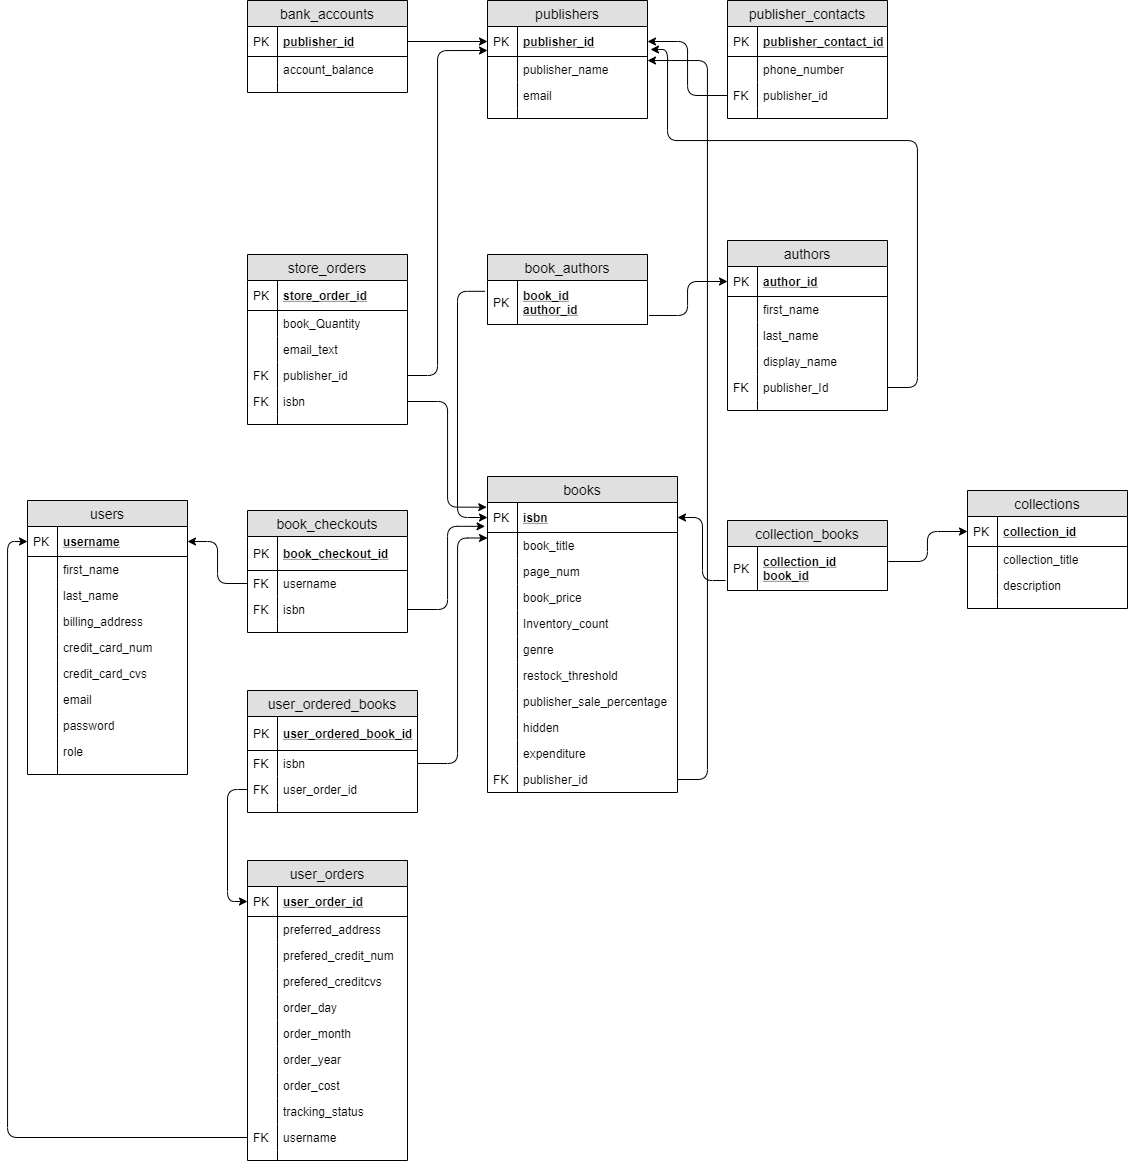
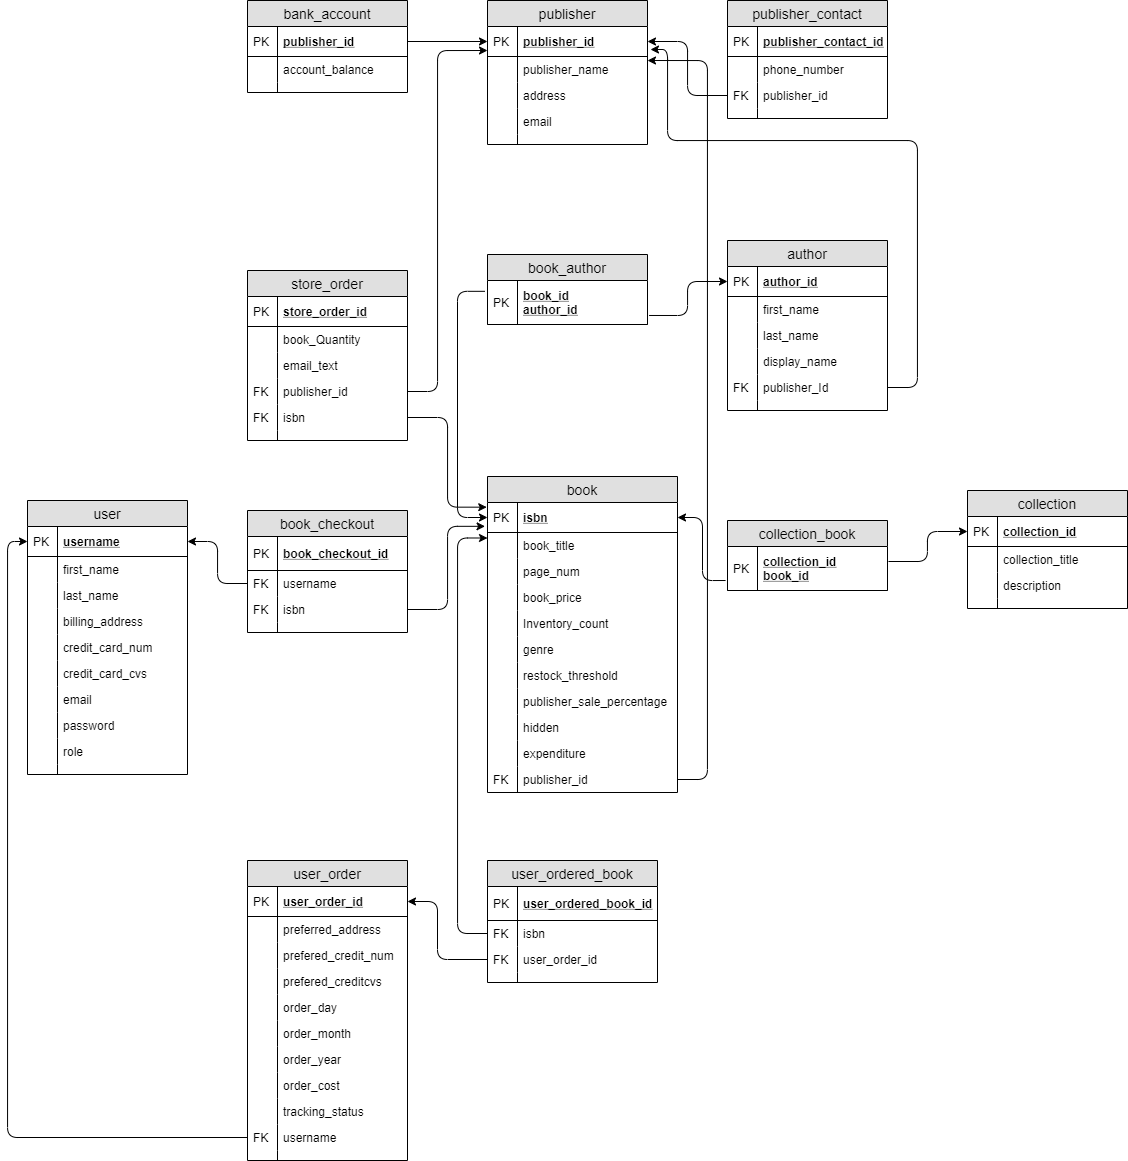
updated diagram

diff --git a/docs/checklist.md b/docs/checklist.md
@@ -1,1 +1,3 @@
 -create signups for user
+-remove plurals from schema [DONE]
+-add address and email address to publisher table
